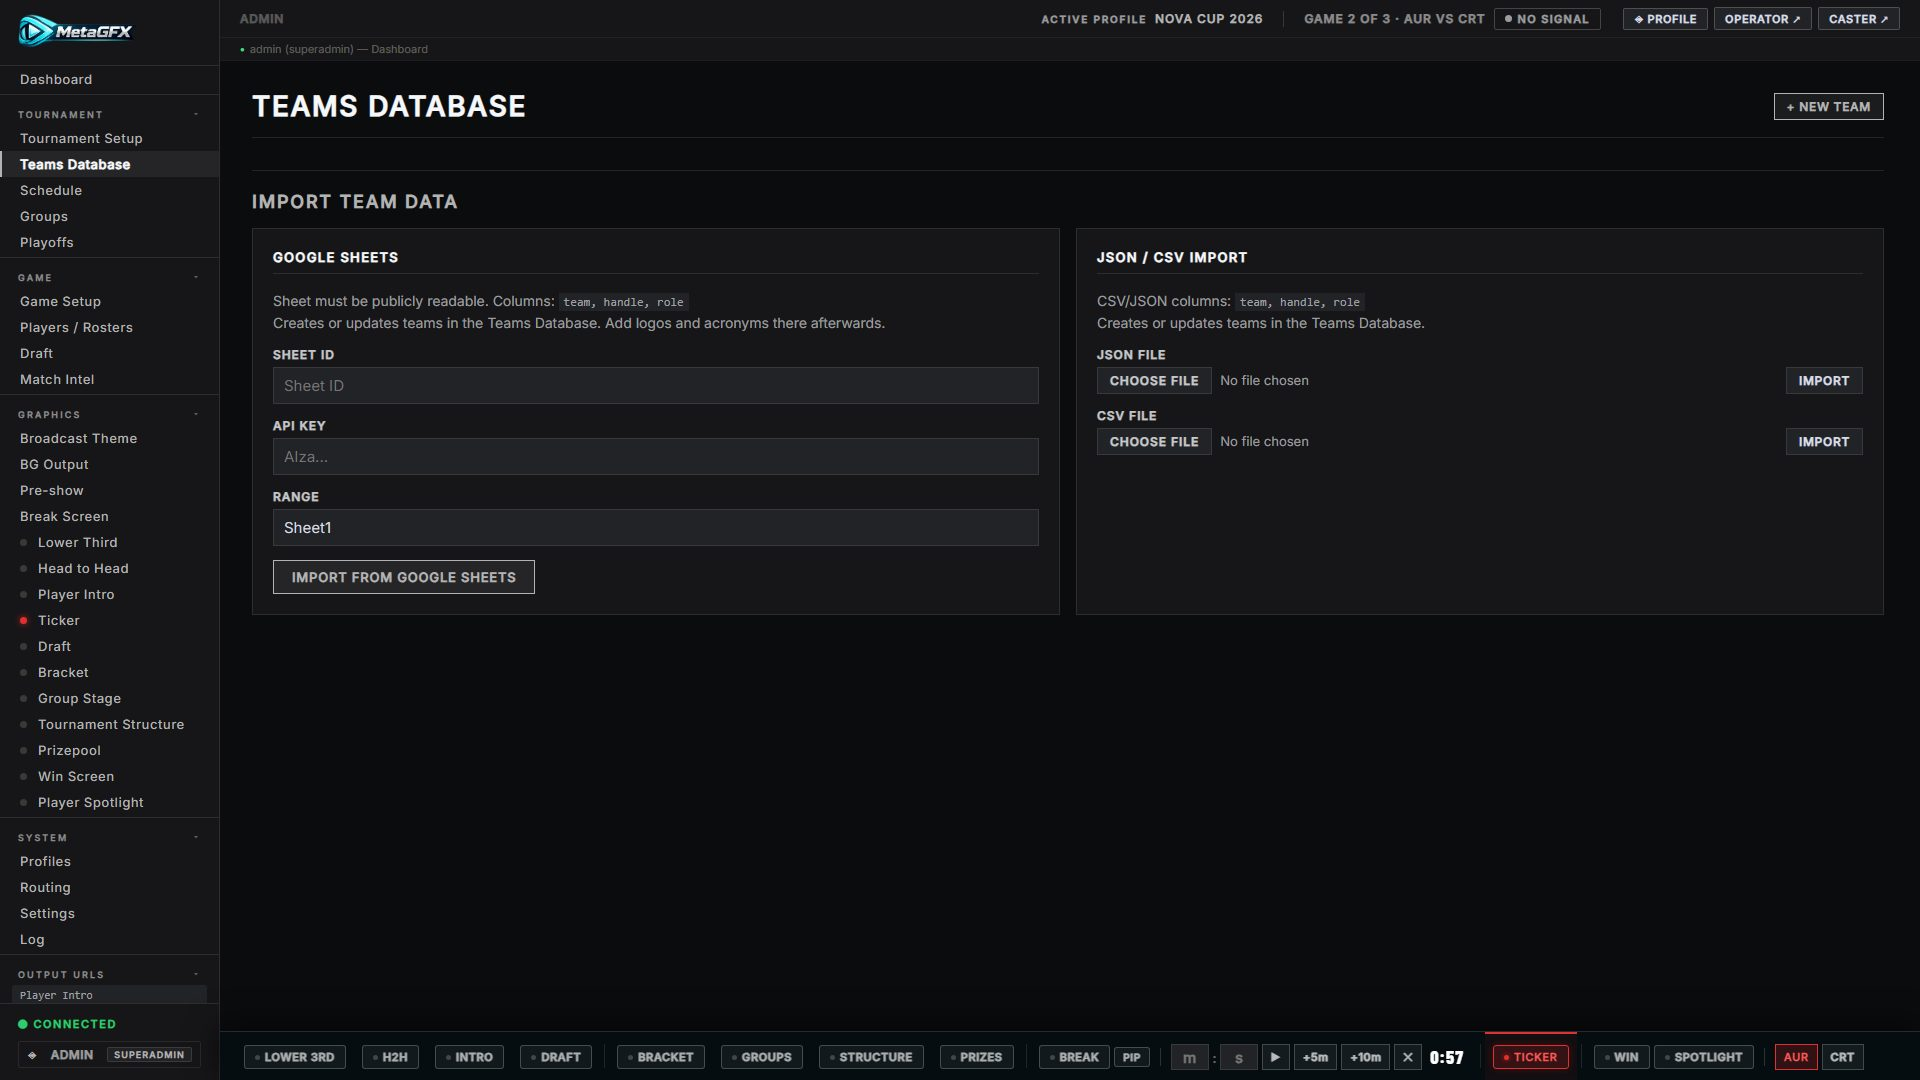
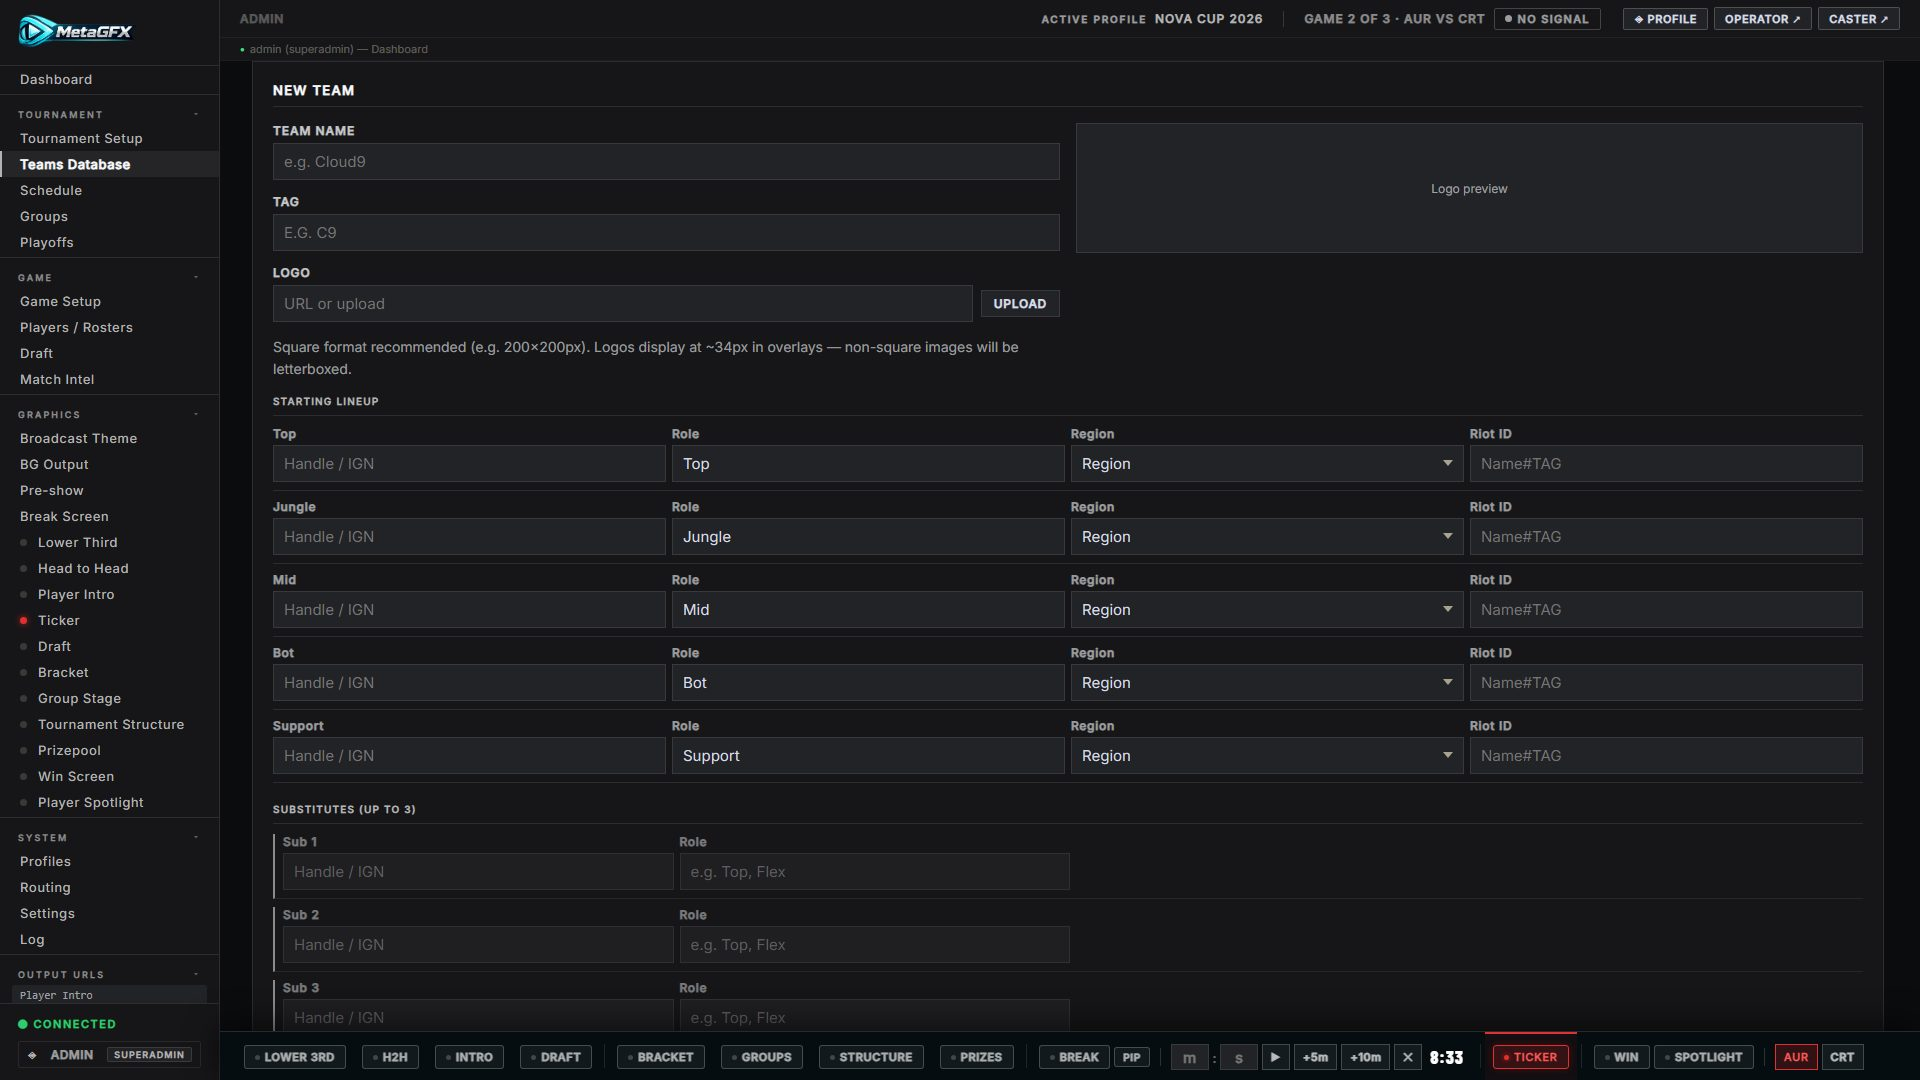
docs: Teams Database shot now shows the New Team editor (entry fields)

diff --git a/docs/tournament-setup.md b/docs/tournament-setup.md
@@ -78,7 +78,7 @@ Per-stage default series formats (e.g. groups = Bo1, playoffs = Bo3, finals = Bo
 
 **Tournament → Teams Database** is your reusable, cross-tournament store of teams and their rosters. The [Competing Teams](#competing-teams) pool pulls from here; editing a team here doesn't disturb other events.
 
-![Teams Database — import tools (Google Sheets / CSV / JSON)](img/tool-teams-database.jpg)
+![Teams Database — the New Team editor (name, tag, logo, lineup, subs)](img/tool-teams-database.jpg)
 
 ### Creating / editing a team
 
